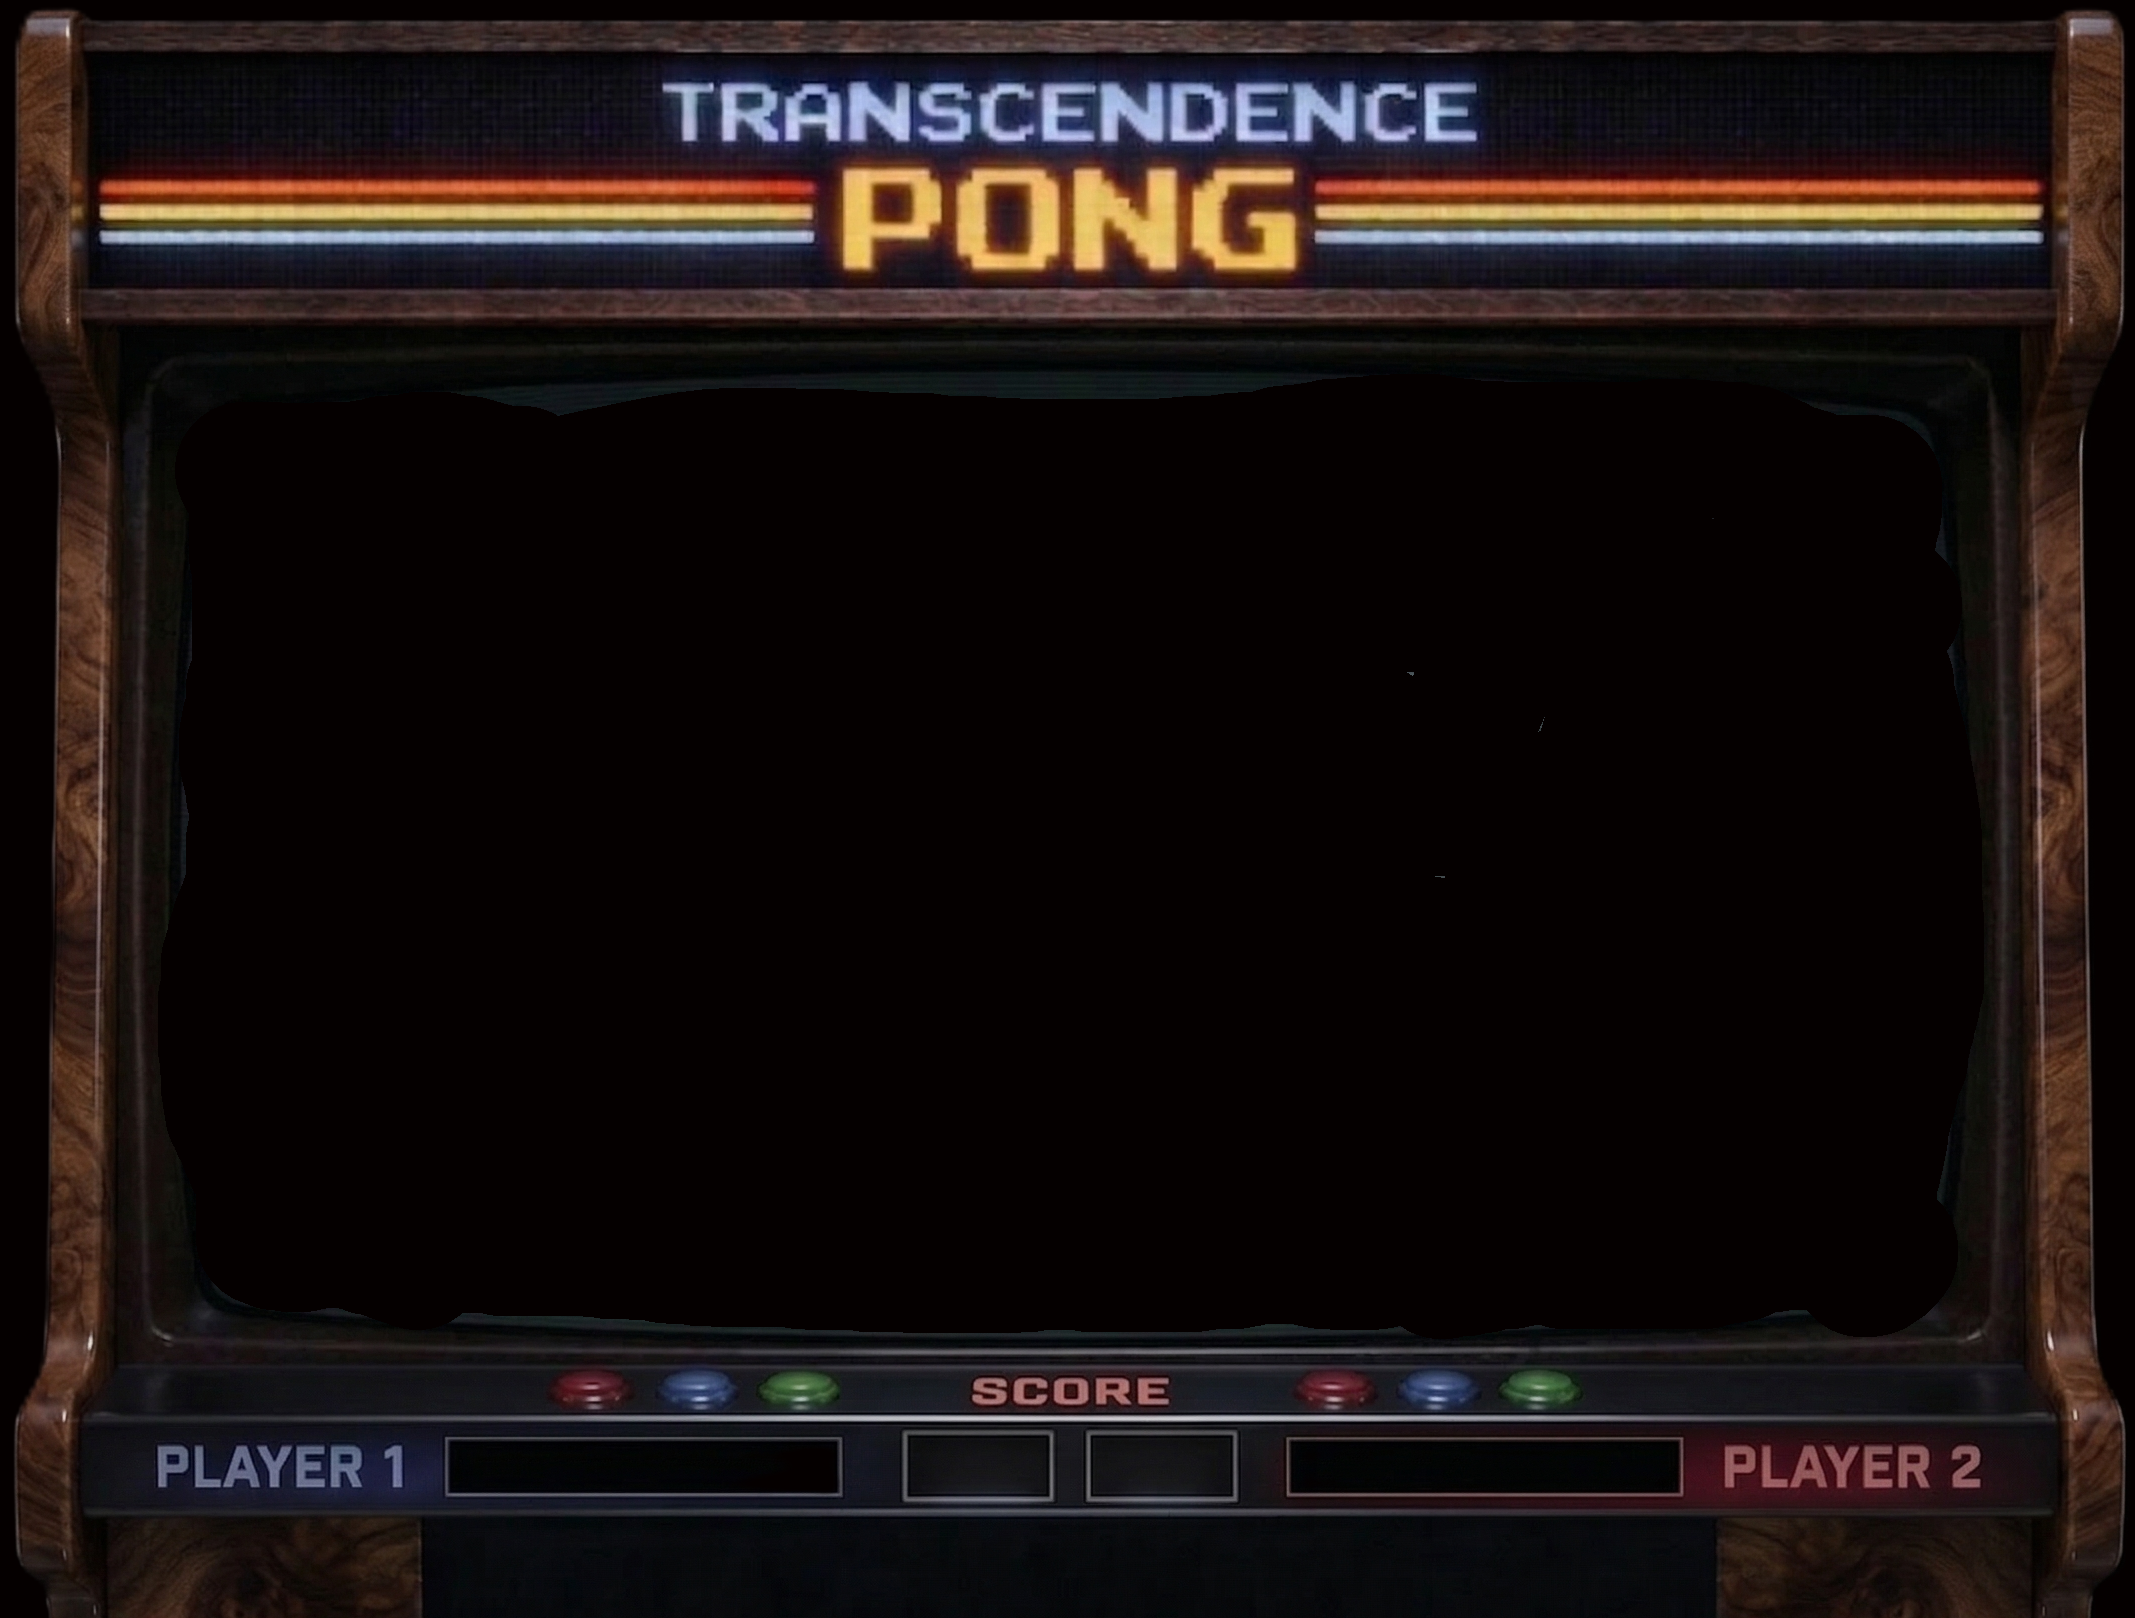
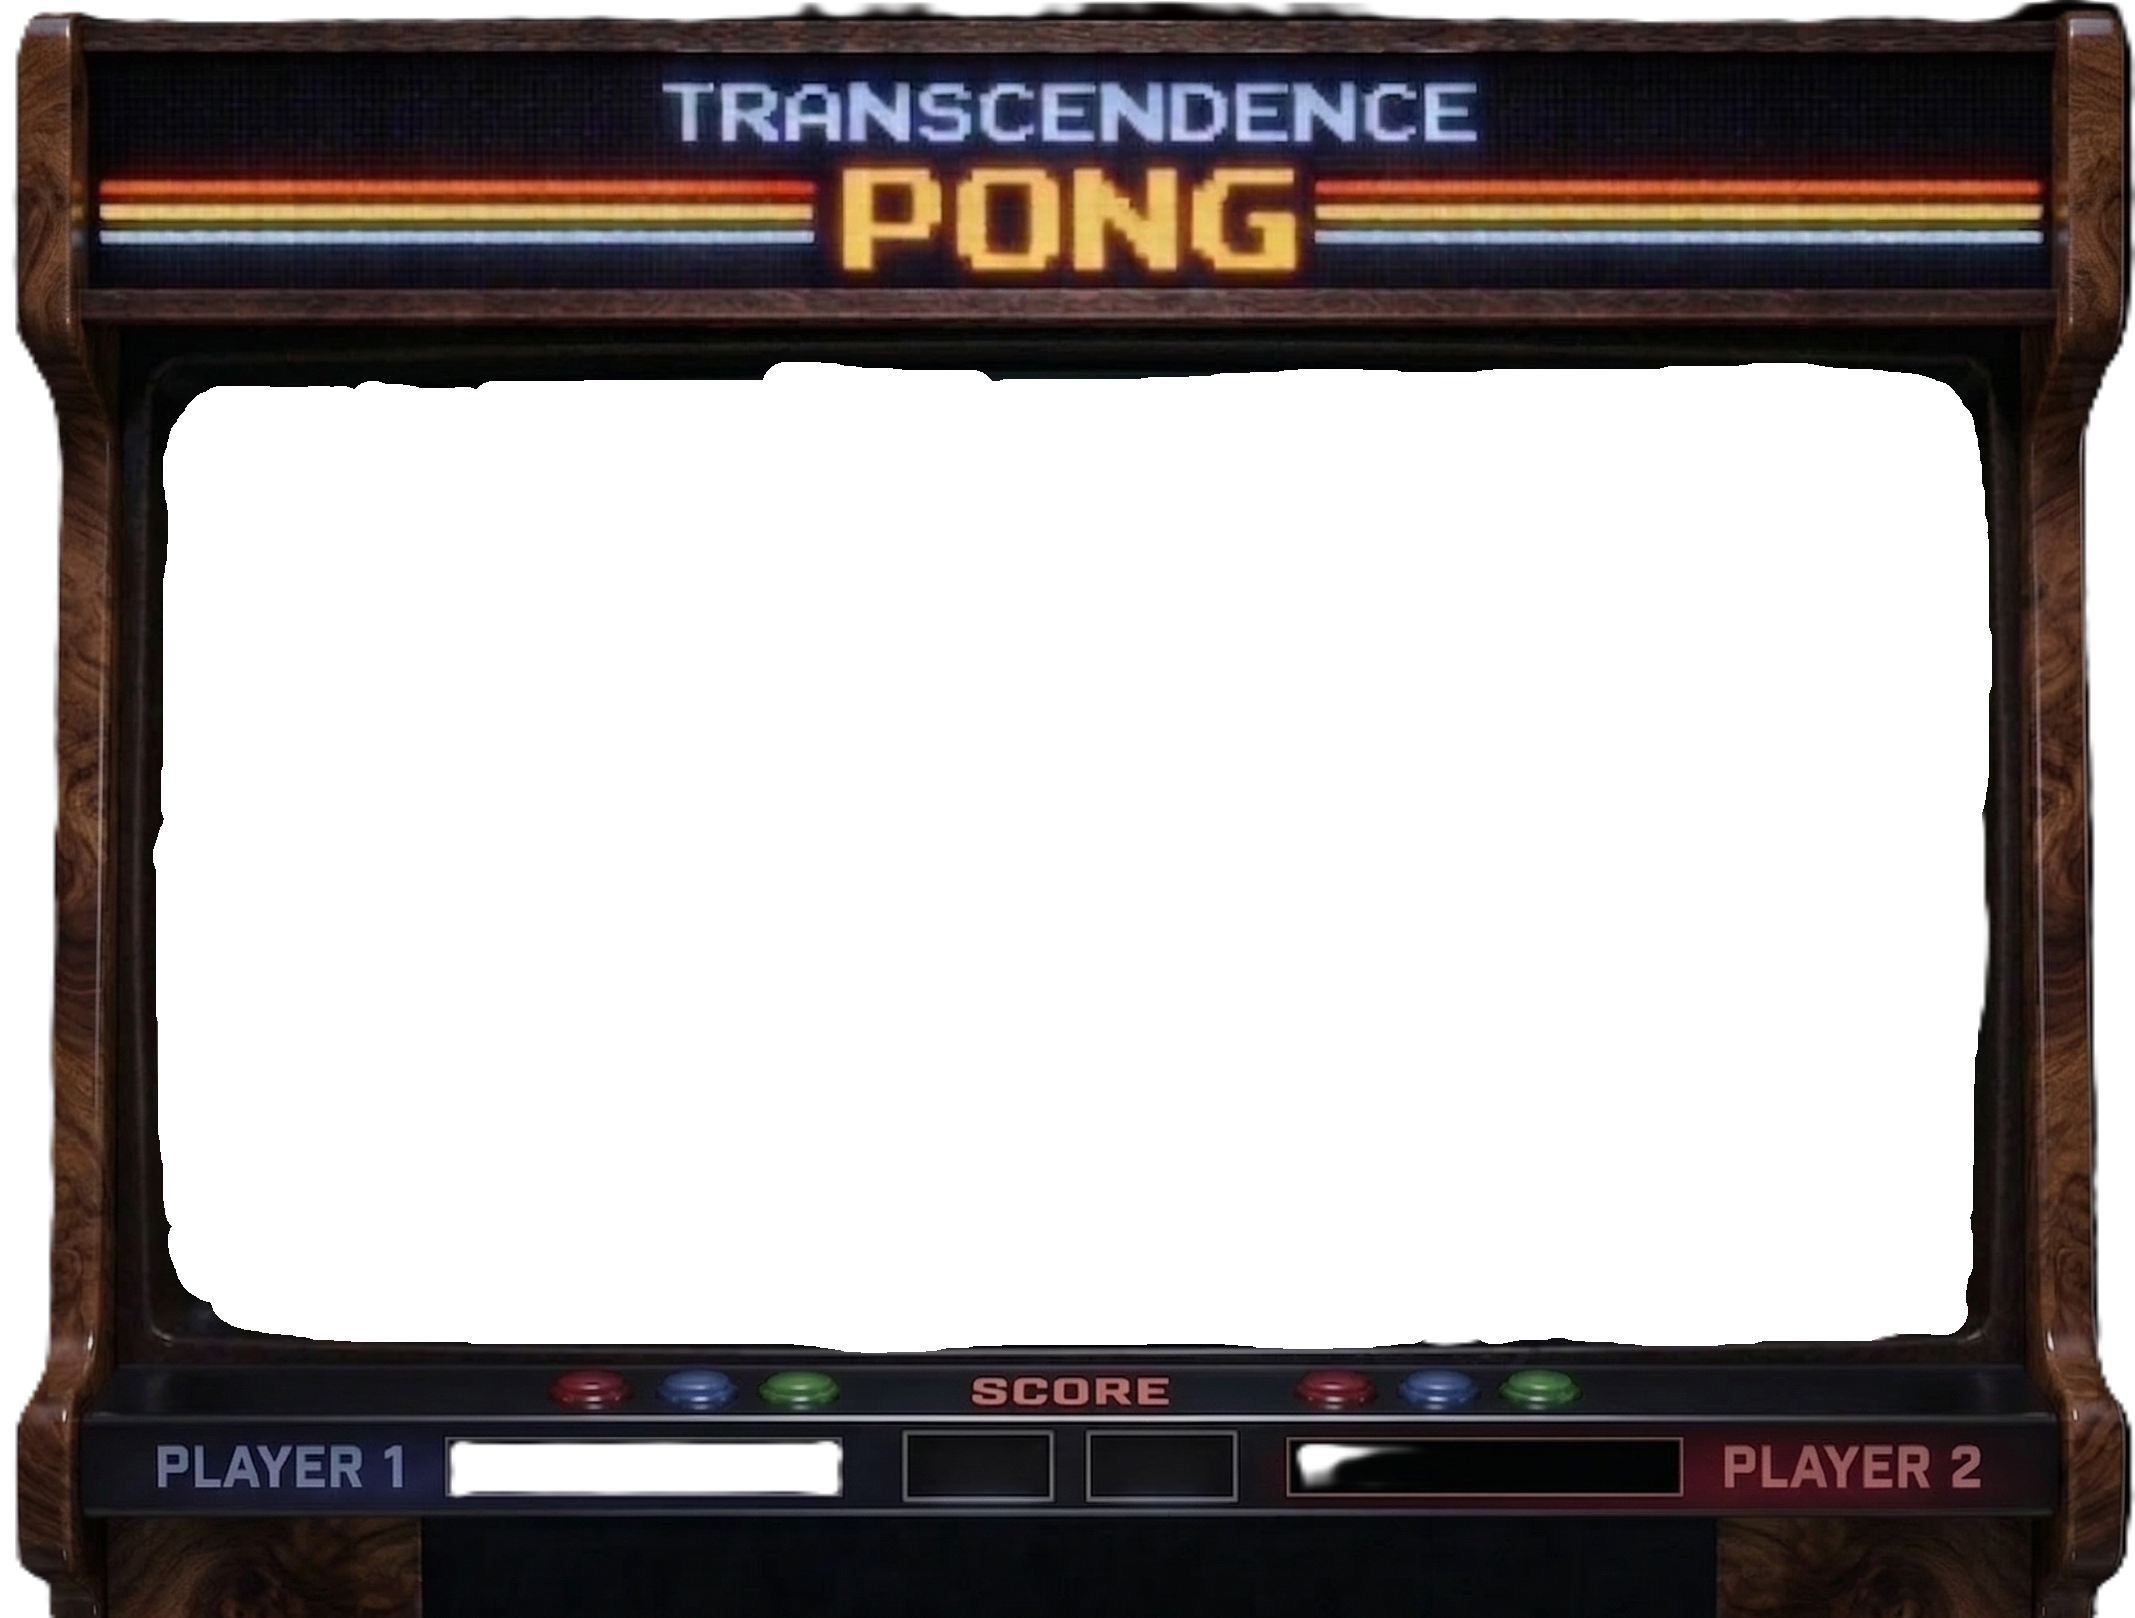
[FRONT][FIX] edit bgArcade background, erase filltext of controls and adding delay to serve and points, fix back button(header troubles)

diff --git a/frontend/src/ui2d/components/game2d/2dUseGameLoop.ts b/frontend/src/ui2d/components/game2d/2dUseGameLoop.ts
@@ -28,7 +28,7 @@ import type { MutableRefObject, RefObject } from "react";
 import { GamePhysics } from "./2dGamePhysics";
 import { Game2dRenderer } from "./2dGameRender";
 import { GameInput } from "./2dGameInput";
-import { FRAME_DURATION } from "./2dGameConfig";
+import { FRAME_DURATION, SERVE_DELAY_START, SERVE_DELAY_SCORE } from "./2dGameConfig";
 import type { Paddle, Ball, Keys, Game2dState, Game2DMode } from "./2dGameState";
 
 //definimos el contrato que debe tener el hook..
@@ -61,6 +61,7 @@ export function use2dGameLoop({
 																//limpiar canvas, dibujar palasm bola, y texto// .current puede ser null al principio
 		const inputHandlerRef = useRef<GameInput | null>(null);
 		const gameStateRef = useRef<Game2dState>(gameState);
+		const serveCountdownRef = useRef<number>(0); // frames de espera antes de mover la bola (saque)
 
 		//hook q ejecuta el codigo cuando el componente ya esta montado en el DOM/cuando cambien dependencias o se desmonta.// end con []->una vez
 		useEffect(() => {
@@ -135,18 +136,23 @@ export function use2dGameLoop({
 					GamePhysics.updatePaddles(player1Ref.current, player2Ref.current, keysRef.current,
 						ballRef.current, gameMode);
 					
-					//lomismo con la bola
-					GamePhysics.updateBall(ballRef.current, player1Ref.current, player2Ref.current, onScore);
+					//lomismo con la bola: solo si el countdown de saque ha terminado
+					if (serveCountdownRef.current > 0) {
+						serveCountdownRef.current--;
+					} else {
+						GamePhysics.updateBall(ballRef.current, player1Ref.current, player2Ref.current,
+							(player) => { serveCountdownRef.current = SERVE_DELAY_SCORE; onScore(player); });
+					}
 				}
 				
 				// siempre renderizamos el frame act.. aunq el juego este pause o haya winner
 				// porque necesitamos dibujar el estado visual (marcador, winner, pausa, etc.)
 				if (rendererRef.current) {
 					// render(...) -> dibuja TODO en el canvas,recibe: 
-					// - player1-player2-ball- currentGameState(pra saber si mostrar winner o pausa)
+					// - player1-player2-ball- currentGameState(pra saber si mostrar winner o pausa)r
 					// - gameMode (puede afectar UI)
 					rendererRef.current.render(player1Ref.current, player2Ref.current,
-						ballRef.current, currentGameState, gameMode);
+						ballRef.current, currentGameState);
 				}
 			};
 			
@@ -185,8 +191,14 @@ export function use2dGameLoop({
 		// Por eso usamos gameStateRef: // sincronizamos React → Motor cada vez que cambia el estado.
 		// [gameState] -> dependencia: si el estado cambia, React ejecuta este bloqu		
 		useEffect(() => {
+			const wasPlaying = gameStateRef.current.isPlaying;
 			gameStateRef.current = gameState;//actualiz el ref interno con el estado + reciente
-			
+
+			// al arrancar la partida (SPACE por primera vez) → countdown de saque
+			if (!wasPlaying && gameState.isPlaying) {
+				serveCountdownRef.current = SERVE_DELAY_START;
+			}
+
 			// si ya existe el manejador de input (GameInput) le pasamos el nuevo estado del juego
 			// esto permite que el input se adapte a cambios como:- pausa- start- winner
 			if (inputHandlerRef.current) {

diff --git a/frontend/src/ui2d/components/ArcadeBgLayout.tsx b/frontend/src/ui2d/components/ArcadeBgLayout.tsx
@@ -1,9 +1,9 @@
-import type React from 'react'
-const arcadeBg = '/images/arcadebg5.png'
+import type React from 'react';
+const arcadeBg = '/images/arcadebg5.png';
 
 type BgProps = {
 	children: React.ReactNode
-	backButton?: React.ReactNode
+	onBack?: () => void
 	showGameHud?: boolean
 	player1Name?: string
 	player2Name?: string
@@ -13,7 +13,7 @@ type BgProps = {
 
 export function ArcadeBgLayout({
 	children,
-	backButton,
+	onBack,
 	showGameHud = false,
 	player1Name = 'PLAYER 1',
 	player2Name = 'PLAYER 2',
@@ -26,32 +26,38 @@ export function ArcadeBgLayout({
 				<img
 					src={arcadeBg}
 					alt="Arcade"
-					className="w-full h-full object-fill block"
+					className="w-full h-full object-fill block pointer-events-none"
 				/>
 				{/* Overlay posicionado relativo a la imagen real, no al contenedor */}
 				<div className="absolute left-[8%] top-[21%] w-[85%] h-[60%] flex flex-col items-center justify-center overflow-auto">
 					{children}
 				</div>
 				{/* Botón back: siempre top-right relativo a la imagen */}
-				{backButton && (
-					<div className="absolute top-[5%] right-[6%] z-10 font-['Press_Start_2P'] 
-									hover:bg-black hover:text-white transition-colors text-yellow-400"
+				{onBack && (
+					<button
+						onClick={onBack}
+						className="absolute top-[5%] right-[6%] z-[80] font-['Press_Start_2P'] text-yellow-400
+								cursor-pointer hover:bg-black hover:text-white transition-colors px-2 py-1"
 						style={{ fontSize: '2.5vmin' }}>
-						{backButton}
-					</div>
+						← BACK
+					</button>
 				)}
 				{showGameHud && (
 					<>
-						<div className="absolute bottom-[8%] left-[25%] z-10 font-['Press_Start_2P'] text-yellow-400">
-							<span>{player1Name}</span>
+						<div className="absolute bottom-[8%] left-[25%] z-10 font-['Press_Start_2P'] text-yellow-400 max-w-[20%] overflow-hidden"
+							style={{ fontSize: '2vmin' }}>
+							<span className="block whitespace-nowrap truncate">{player1Name}</span>
 						</div>
-						<div className="absolute bottom-[8%] right-[25%] font-['Press_Start_2P'] text-yellow-400">
-							<span>{player2Name}</span>
+						<div className="absolute bottom-[8%] right-[25%] font-['Press_Start_2P'] text-yellow-400 max-w-[20%] overflow-hidden"
+							style={{ fontSize: '2vmin' }}>
+							<span className="block whitespace-nowrap truncate">{player2Name}</span>
 						</div>
-						<div className="absolute bottom-[7.9%] left-[54%] font-['Press_Start_2P'] text-yellow-400">
+						<div className="absolute bottom-[7.9%] right-[53%] font-['Press_Start_2P'] text-yellow-400"
+							style={{ fontSize: '2vmin' }}>
 							<span>{player1Score}</span>
 						</div>
-						<div className="absolute bottom-[7.9%] right-[53%] font-['Press_Start_2P'] text-yellow-400">
+						<div className="absolute bottom-[7.9%] left-[54%] font-['Press_Start_2P'] text-yellow-400"
+							style={{ fontSize: '2vmin' }}>
 							<span>{player2Score}</span>
 						</div>
 					</>

diff --git a/frontend/src/ui2d/components/game2d/2dGameRender.ts b/frontend/src/ui2d/components/game2d/2dGameRender.ts
@@ -53,7 +53,7 @@ export class Game2dRenderer {
 
 
 	//renderizamos el juego //metodo que pinta un frame(render(fotograma))
-	render (player1: Paddle, player2: Paddle, ball: Ball, gameState: Game2dState, gameMode: Game2DMode): void {
+	render (player1: Paddle, player2: Paddle, ball: Ball, gameState: Game2dState): void {
 
 		this.drawRec(0, 0, CANVAS_WIDTH, CANVAS_HEIGHT, COLORS.background);
 		//para borrar el frame anterior y evitar rstros
@@ -68,20 +68,6 @@ export class Game2dRenderer {
 		// Dibujar controles en la parte inferior
 		this.ctx.font = '14px monospace';
 		
-		// Lado izquierdo (Player 1 o IA)
-		if (gameMode === 'spectator') {
-			this.drawText('IA', 60, CANVAS_HEIGHT - 20, COLORS.text, 14, 'left');
-		} else {
-			this.drawText('W/S', 60, CANVAS_HEIGHT + 2, COLORS.text, 14, 'left');
-		}
-		
-		// Lado derecho (Player 2 o IA)
-		if (gameMode === '1v1') {
-			this.drawText('↑/↓', CANVAS_WIDTH - 0, CANVAS_HEIGHT - 20, COLORS.text, 14, 'right');
-		} else {
-			this.drawText('IA', CANVAS_WIDTH - 60, CANVAS_HEIGHT - 20, COLORS.text, 14, 'right');
-		}
-
 		// Mensajes de estado
 		if (!gameState.isPlaying && !gameState.winner) {
 			this.drawText(

diff --git a/frontend/src/ui2d/components/game2d/2dGameInput.ts b/frontend/src/ui2d/components/game2d/2dGameInput.ts
@@ -91,16 +91,20 @@ export class GameInput {
 	handleKeyUp = (e: KeyboardEvent): void => {
 
 		//cuando soltamos W => dejamos de subir
-		if (e.key === 'w' || e.key === 'W') this.keys.w = false;
+		if (e.key === 'w' || e.key === 'W')
+			this.keys.w = false;
 
 		//cuando soltamos S => dejamos de bajar
-		if (e.key === 's' || e.key === 'S') this.keys.s = false;
+		if (e.key === 's' || e.key === 'S')
+			this.keys.s = false;
 
 		//cuando soltamos flecha arriba
-		if (e.key === 'ArrowUp') this.keys.ArrowUp = false;
+		if (e.key === 'ArrowUp')
+			this.keys.ArrowUp = false;
 
 		//cuando soltamos flecha abajo
-		if (e.key === 'ArrowDown') this.keys.ArrowDown = false;
+		if (e.key === 'ArrowDown')
+			this.keys.ArrowDown = false;
 	};
 
 	// UPDATE STATE

diff --git a/frontend/src/ui2d/components/game2d/2dGameConfig.ts b/frontend/src/ui2d/components/game2d/2dGameConfig.ts
@@ -17,6 +17,8 @@ export const BALL_SPEED_INCREMENT = 0.5		//Inc velocidad de la pelota tras cada 
 
 //game reglas
 export const MAX_SCORE = 5					//puntuacino
+export const SERVE_DELAY_START = 60			//frames de espera al iniciar partida (90 = ~1.5 seg)
+export const SERVE_DELAY_SCORE = 40			//frames de espera tras marcar punto  (30 = ~0.5 seg)
 
 //render loop config
 export const FPS = 60						//frames x seg

diff --git a/frontend/src/ui2d/pages/game2D/2PlayerLocal2d.tsx b/frontend/src/ui2d/pages/game2D/2PlayerLocal2d.tsx
@@ -42,13 +42,7 @@ export function Player2vsLocal2D() {
 		player2Name="PLAYER 2"
 		player1Score={scores.player1}
 		player2Score={scores.player2}
-		backButton={
-				<button
-					onClick={() => navigate('/game')}
-				>
-					← BACK
-				</button>
-			}>	
+		onBack={() => navigate('/game')}>	
 					<Game2DCanvas
 						gameMode="1v1"
 						maxScore={5}

diff --git a/frontend/src/ui2d/pages/game2D/NoPlayerLocal2d.tsx b/frontend/src/ui2d/pages/game2D/NoPlayerLocal2d.tsx
@@ -40,12 +40,7 @@ export function SpectatorMode2d() {
 		player2Name="PLAYER 2"
 		player1Score={scores.player1}
 		player2Score={scores.player2}
-		backButton={
-				<button
-					onClick={() => navigate('/game')}>
-					← BACK
-				</button>
-			}>	
+		onBack={() => navigate('/game')}>	
 					<Game2DCanvas
 						gameMode="spectator"
 						maxScore={5}

diff --git a/frontend/src/ui2d/pages/game2D/1PlayerLocal2d.tsx b/frontend/src/ui2d/pages/game2D/1PlayerLocal2d.tsx
@@ -24,12 +24,7 @@ export function Player1vsLocal2D() {
 			player2Name="IA"
 			player1Score={scores.player1}
 			player2Score={scores.player2}
-			backButton={
-				<button
-					onClick={() => navigate('/game')}>
-					← BACK
-				</button>
-			}
+			onBack={() => navigate('/game')}
 		>	
 			<Game2DCanvas
 				gameMode="1vIA"
